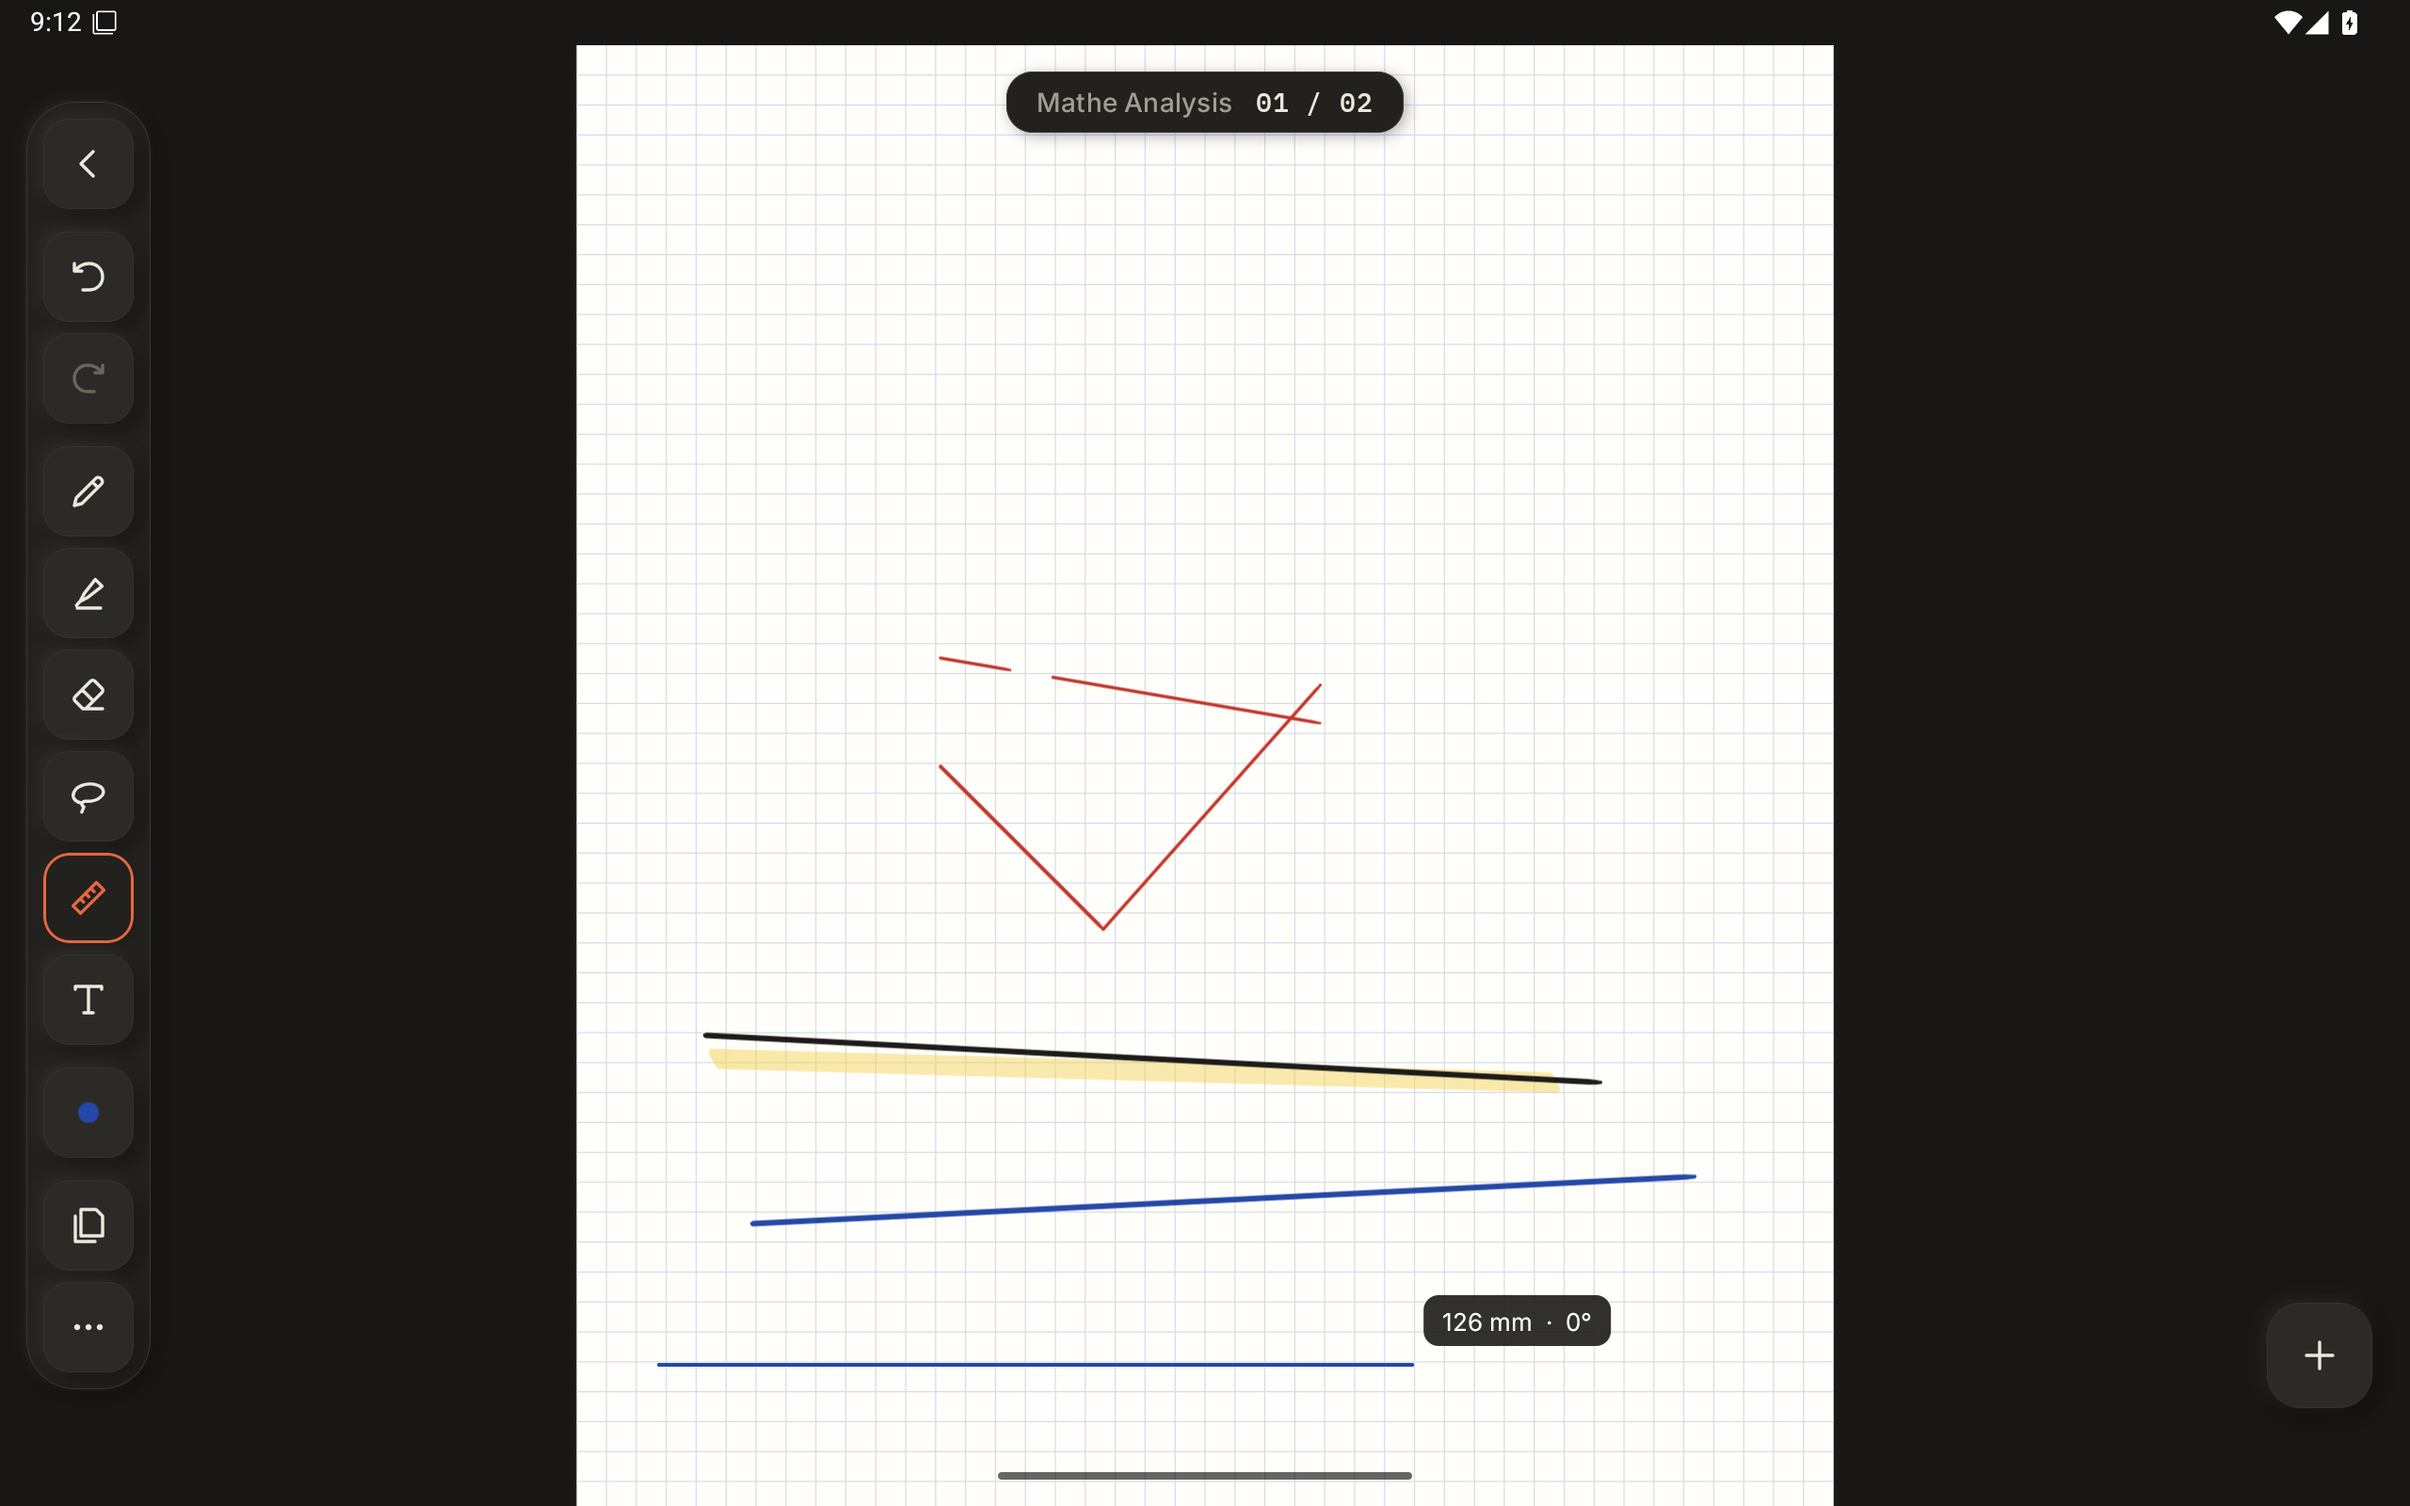
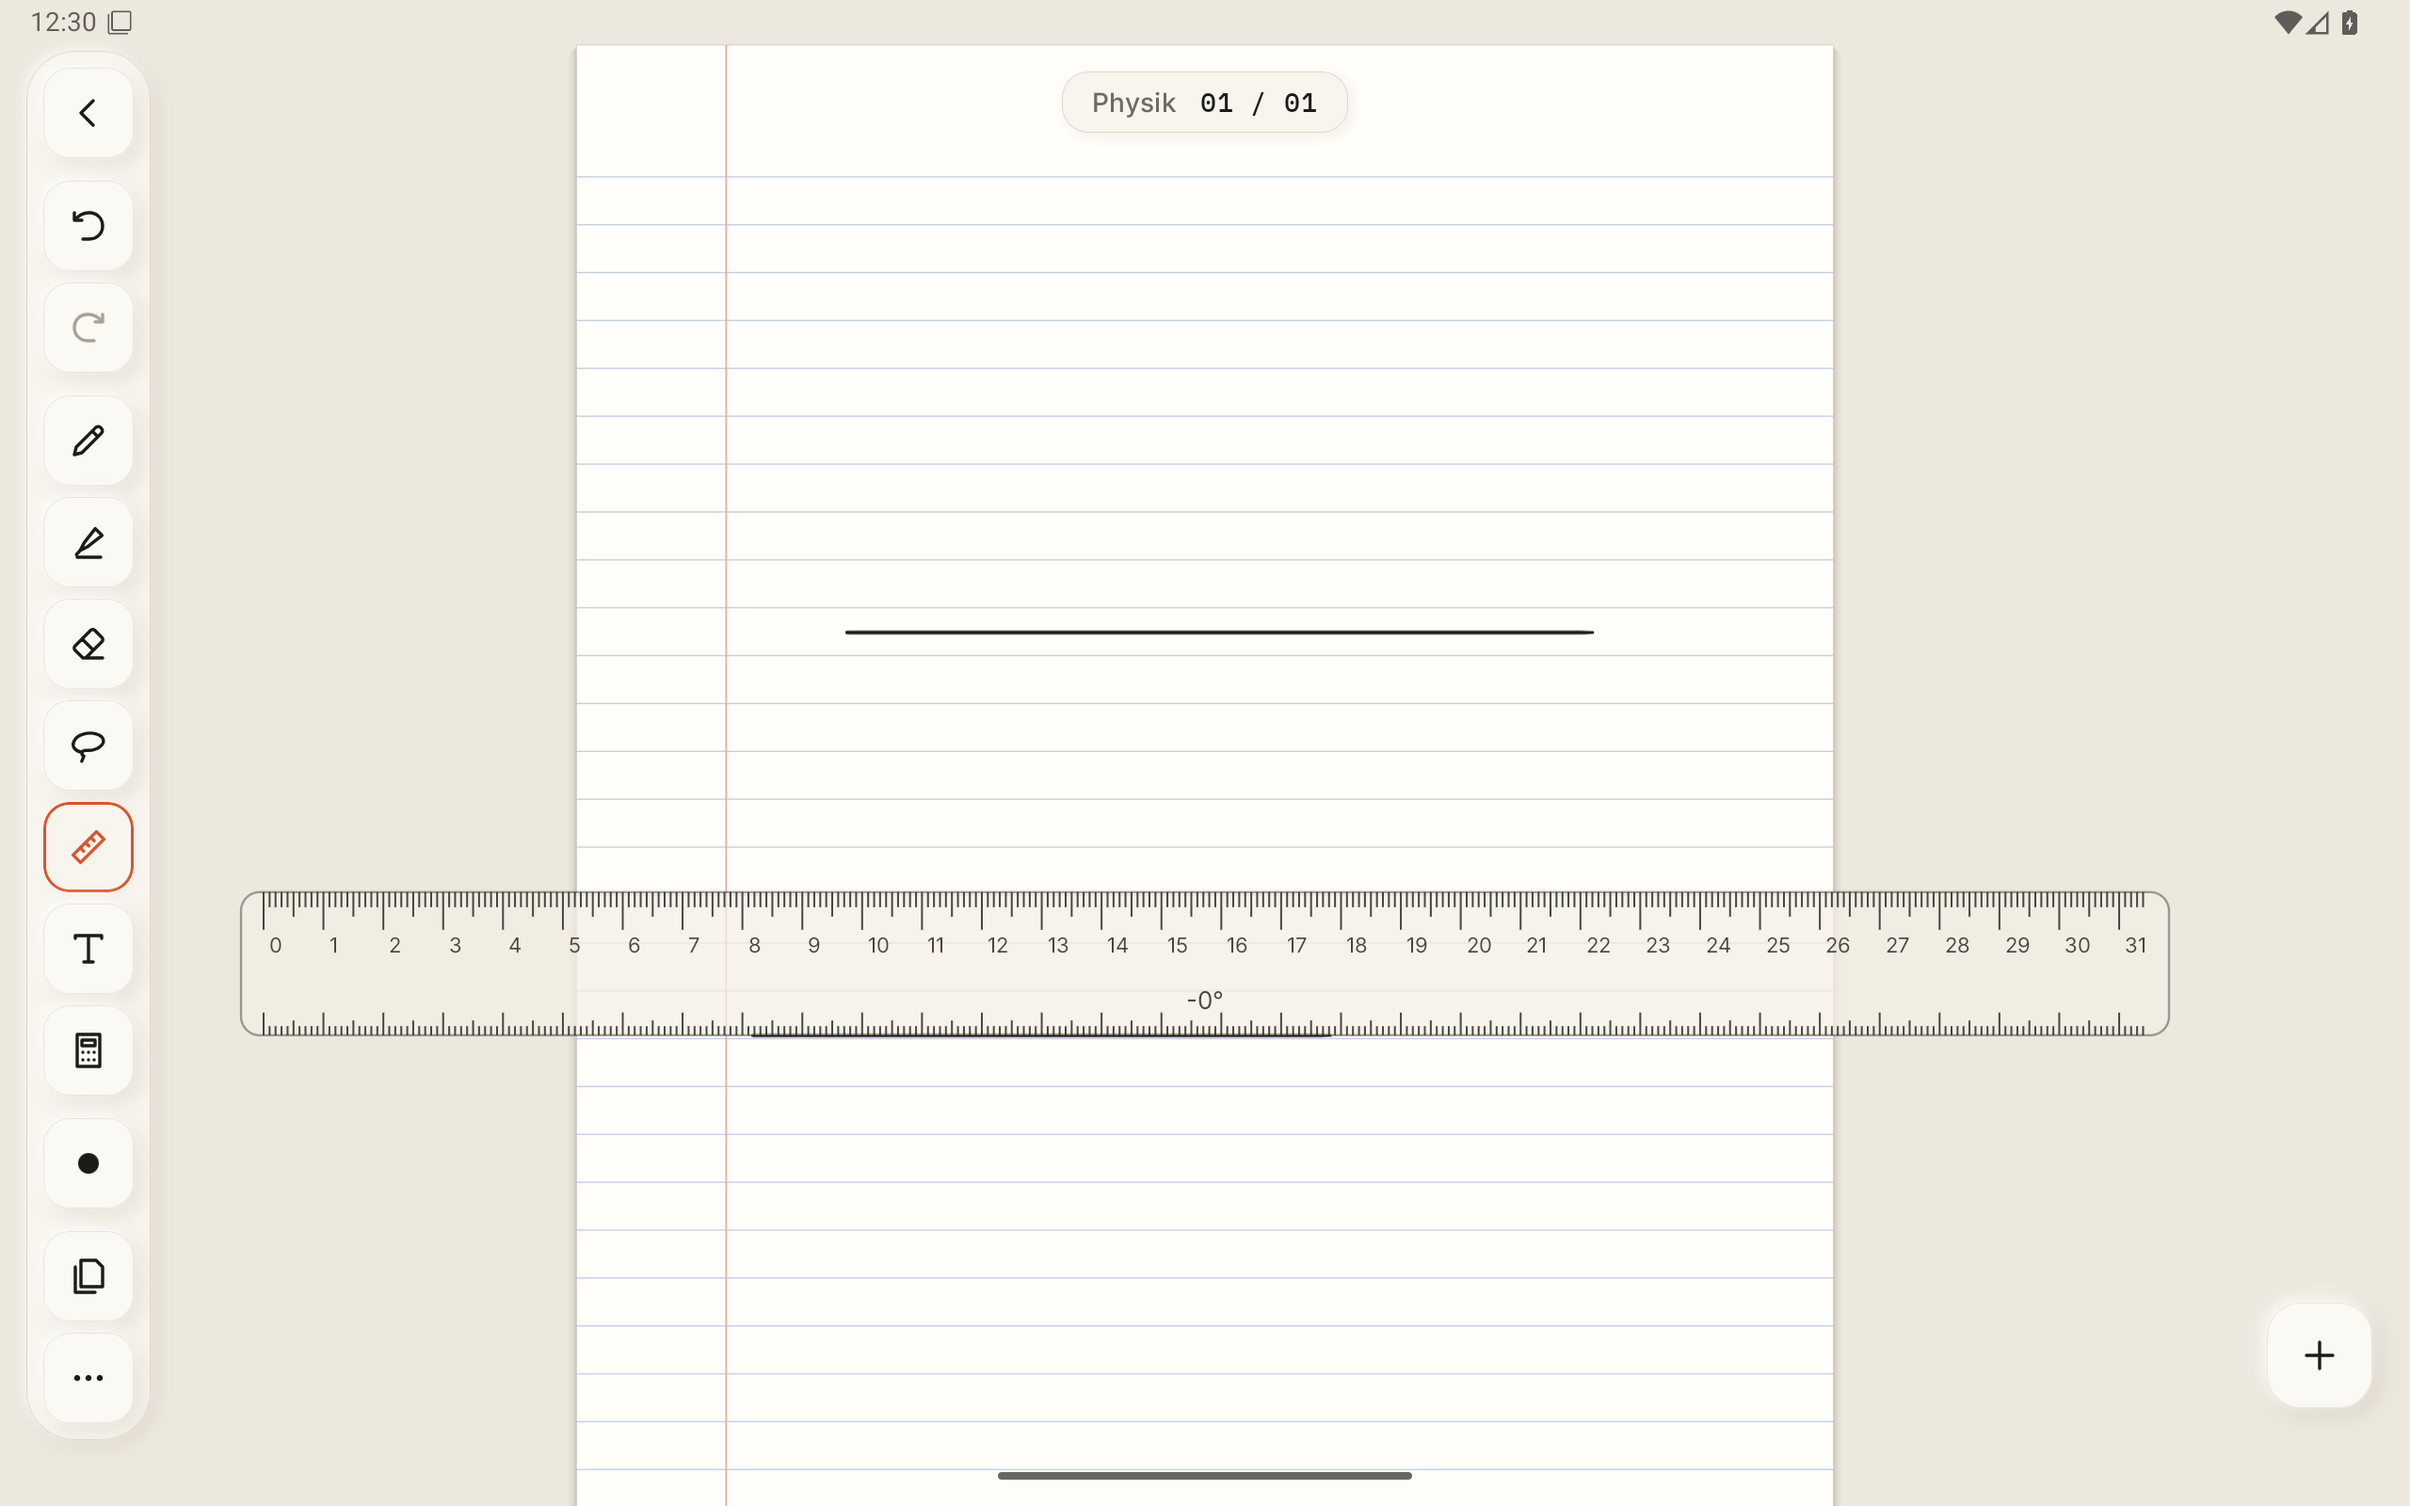
Schulranzen: echtes Lineal auf dem Blatt
Mit dem Lineal-Werkzeug liegt ein durchscheinendes Lineal mit mm/cm-Skala
(in Seiten-Millimetern beim aktuellen Zoom) auf dem Bildschirm. Ein Finger
verschiebt es, zwei Finger drehen es (rastet in 15°-Schritten ein, Winkel in
der Mitte). Der Stift an einer Kante zieht eine Linie genau entlang der Kante;
abseits des Lineals bleibt die freie gerade Linie mit Längen-/Winkelanzeige.

diff --git a/apps/schulranzen/ink/src/main/kotlin/de/millione/schulranzen/ink/NotebookCanvasView.kt b/apps/schulranzen/ink/src/main/kotlin/de/millione/schulranzen/ink/NotebookCanvasView.kt
@@ -459,6 +459,19 @@ class NotebookCanvasView(context: Context) : FrameLayout(context) {
     private var downX = 0f; private var downY = 0f
     private var selStart = FloatArray(2)
 
+    // The ruler lies on the screen (not on the page) like a real one on the
+    // desk: fingers move and turn it, the pen draws along its edges. Centre of
+    // the top edge in view pixels and angle in radians.
+    private var rulerCx = -1f; private var rulerCy = 0f
+    private var rulerAngle = 0f
+    private var rulerRawAngle = 0f
+    private val rulerW get() = 76f * density
+    private val rulerL get() = max(width, 1) * 0.8f
+    /** Offset of the edge the current pen line follows (0 or [rulerW]); NaN = free line. */
+    private var rulerEdge = Float.NaN
+    private var rulerFinger = false
+    private var rfLastX = 0f; private var rfLastY = 0f; private var rfLastA = 0f; private var rfId = -1
+
     // finger pan / pinch
     private var panId = -1
     private var lastX = 0f; private var lastY = 0f
@@ -495,6 +508,7 @@ class NotebookCanvasView(context: Context) : FrameLayout(context) {
             if (mode == Mode.PAN) endPan()
             return true
         }
+        if (tool == ToolKind.RULER && mode != Mode.PAN && rulerFingerEvent(e)) return true
         fingerEvent(e)
         return true
     }
@@ -555,7 +569,16 @@ class NotebookCanvasView(context: Context) : FrameLayout(context) {
             }
             ToolKind.RULER -> {
                 mode = Mode.RULER
-                rulerA = local; rulerB = local.copyOf()
+                ensureRuler()
+                val (t, d) = rulerCoords(x, y)
+                val grab = 30f * density
+                rulerEdge = if (abs(t) <= rulerL / 2 + grab && d in -grab..rulerW + grab) (if (d < rulerW / 2) 0f else rulerW) else Float.NaN
+                if (!rulerEdge.isNaN()) {
+                    val p = rulerEdgePoint(t, rulerEdge)
+                    rulerA = localOf(page, p[0], p[1]); rulerB = rulerA.copyOf()
+                } else {
+                    rulerA = local; rulerB = local.copyOf()
+                }
             }
             ToolKind.TEXT -> mode = Mode.TEXT
             else -> {
@@ -603,7 +626,10 @@ class NotebookCanvasView(context: Context) : FrameLayout(context) {
                         overlay.invalidate()
                     }
                     Mode.RULER -> {
-                        rulerB = snap(rulerA, localOf(gesturePage, x, y))
+                        rulerB = if (rulerEdge.isNaN()) snap(rulerA, localOf(gesturePage, x, y)) else {
+                            val p = rulerEdgePoint(rulerCoords(x, y).first, rulerEdge)
+                            localOf(gesturePage, p[0], p[1])
+                        }
                         overlay.invalidate()
                     }
                     Mode.MOVE_SEL -> {
@@ -684,6 +710,78 @@ class NotebookCanvasView(context: Context) : FrameLayout(context) {
         if (abs(deg - nearest) > 4.0) return b
         val r = Math.toRadians(nearest)
         return floatArrayOf(a[0] + (cos(r) * len).toFloat(), a[1] + (sin(r) * len).toFloat())
+    }
+
+    private fun ensureRuler() {
+        if (rulerCx < 0f && width > 0) { rulerCx = width / 2f; rulerCy = height * 0.42f }
+    }
+
+    /** View point → (along the ruler from its centre, across from the top edge). */
+    private fun rulerCoords(x: Float, y: Float): Pair<Float, Float> {
+        val dx = x - rulerCx; val dy = y - rulerCy
+        val c = cos(rulerAngle); val s = sin(rulerAngle)
+        return (dx * c + dy * s) to (-dx * s + dy * c)
+    }
+
+    private fun rulerEdgePoint(t: Float, edge: Float): FloatArray {
+        val c = cos(rulerAngle); val s = sin(rulerAngle)
+        return floatArrayOf(rulerCx + c * t - s * edge, rulerCy + s * t + c * edge)
+    }
+
+    private fun onRuler(x: Float, y: Float): Boolean {
+        val (t, d) = rulerCoords(x, y)
+        val pad = 6f * density
+        return abs(t) <= rulerL / 2 + pad && d in -pad..rulerW + pad
+    }
+
+    /** One finger moves the ruler, two turn it; it snaps to 15° steps. */
+    private fun rulerFingerEvent(e: MotionEvent): Boolean {
+        ensureRuler()
+        when (e.actionMasked) {
+            MotionEvent.ACTION_DOWN -> {
+                if (!onRuler(e.x, e.y)) return false
+                rulerFinger = true
+                rfId = e.getPointerId(0); rfLastX = e.x; rfLastY = e.y
+                rulerRawAngle = rulerAngle
+                return true
+            }
+            MotionEvent.ACTION_POINTER_DOWN -> if (rulerFinger && e.pointerCount == 2) {
+                rfLastA = atan2(e.getY(1) - e.getY(0), e.getX(1) - e.getX(0))
+                rfLastX = (e.getX(0) + e.getX(1)) / 2; rfLastY = (e.getY(0) + e.getY(1)) / 2
+            }
+            MotionEvent.ACTION_MOVE -> if (rulerFinger) {
+                if (e.pointerCount >= 2) {
+                    val a = atan2(e.getY(1) - e.getY(0), e.getX(1) - e.getX(0))
+                    val mx = (e.getX(0) + e.getX(1)) / 2; val my = (e.getY(0) + e.getY(1)) / 2
+                    var da = a - rfLastA
+                    if (da > Math.PI) da -= (2 * Math.PI).toFloat() else if (da < -Math.PI) da += (2 * Math.PI).toFloat()
+                    rulerRawAngle += da
+                    val step = Math.toRadians(15.0).toFloat()
+                    val nearest = (rulerRawAngle / step).roundToInt() * step
+                    val newAngle = if (abs(rulerRawAngle - nearest) < Math.toRadians(2.0)) nearest else rulerRawAngle
+                    // Turn about the fingers' midpoint, then follow it.
+                    val turn = newAngle - rulerAngle
+                    val c = cos(turn); val s = sin(turn)
+                    val rx = rulerCx - rfLastX; val ry = rulerCy - rfLastY
+                    rulerCx = rfLastX + rx * c - ry * s + (mx - rfLastX)
+                    rulerCy = rfLastY + rx * s + ry * c + (my - rfLastY)
+                    rulerAngle = newAngle
+                    rfLastA = a; rfLastX = mx; rfLastY = my
+                } else {
+                    val i = e.findPointerIndex(rfId).takeIf { it >= 0 } ?: 0
+                    rulerCx += e.getX(i) - rfLastX; rulerCy += e.getY(i) - rfLastY
+                    rfLastX = e.getX(i); rfLastY = e.getY(i)
+                }
+                rulerCx = rulerCx.coerceIn(0f, width.toFloat()); rulerCy = rulerCy.coerceIn(0f, height.toFloat())
+                overlay.invalidate()
+            }
+            MotionEvent.ACTION_POINTER_UP -> if (rulerFinger) {
+                val keep = if (e.actionIndex == 0) 1 else 0
+                rfId = e.getPointerId(keep); rfLastX = e.getX(keep); rfLastY = e.getY(keep)
+            }
+            MotionEvent.ACTION_UP, MotionEvent.ACTION_CANCEL -> if (rulerFinger) { rulerFinger = false; return true }
+        }
+        return rulerFinger
     }
 
     private fun finishRuler() {
@@ -975,7 +1073,12 @@ class NotebookCanvasView(context: Context) : FrameLayout(context) {
         fun eraserAt(px: Float, py: Float) { x = px; y = py; visible = true; erasing = true; invalidate() }
         fun hide() { if (visible) { visible = false }; invalidate() }
 
+        private val rulerFill = Paint(Paint.ANTI_ALIAS_FLAG)
+        private val rulerTick = Paint(Paint.ANTI_ALIAS_FLAG).apply { strokeWidth = 1f * density }
+        private val rulerText = Paint(Paint.ANTI_ALIAS_FLAG)
+
         override fun onDraw(canvas: Canvas) {
+            if (tool == ToolKind.RULER) drawPhysicalRuler(canvas)
             drawSelection(canvas)
             when (mode) {
                 Mode.LASSO -> drawLasso(canvas)
@@ -1033,6 +1136,40 @@ class NotebookCanvasView(context: Context) : FrameLayout(context) {
             val by = (pts[3] - 18f * density).coerceAtLeast(30f * density)
             canvas.drawRoundRect(bx - 10f * density, by - label.textSize - 6f * density, bx + tw + 10f * density, by + 8f * density, 8f * density, 8f * density, tag)
             canvas.drawText(text, bx, by, label)
+        }
+
+        /** Translucent ruler with mm/cm scale on the top edge (page millimetres at the current zoom). */
+        private fun drawPhysicalRuler(canvas: Canvas) {
+            ensureRuler()
+            if (rulerCx < 0f) return
+            val l = rulerL; val w = rulerW
+            canvas.save()
+            canvas.translate(rulerCx, rulerCy)
+            canvas.rotate(Math.toDegrees(rulerAngle.toDouble()).toFloat())
+            rulerFill.style = Paint.Style.FILL; rulerFill.color = 0xB8F4EFE4.toInt()
+            canvas.drawRoundRect(-l / 2, 0f, l / 2, w, 10f * density, 10f * density, rulerFill)
+            rulerFill.style = Paint.Style.STROKE; rulerFill.strokeWidth = 1.2f * density; rulerFill.color = 0x661C1B19
+            canvas.drawRoundRect(-l / 2, 0f, l / 2, w, 10f * density, 10f * density, rulerFill)
+            rulerTick.color = 0xCC1C1B19.toInt()
+            rulerText.color = 0xCC1C1B19.toInt(); rulerText.textSize = 11f * density; rulerText.typeface = label.typeface
+            val mm = UNITS_PER_MM * scale
+            val every = if (mm < 3f * density) 5 else 1
+            val start = -l / 2 + 12f * density
+            var i = 0
+            while (start + i * mm <= l / 2 - 12f * density) {
+                val x = start + i * mm
+                val len = when { i % 10 == 0 -> 20f; i % 5 == 0 -> 13f; else -> 8f } * density
+                canvas.drawLine(x, 0f, x, len, rulerTick)
+                canvas.drawLine(x, w, x, w - len * 0.6f, rulerTick)
+                if (i % 10 == 0) canvas.drawText((i / 10).toString(), x + 3f * density, 32f * density, rulerText)
+                i += every
+            }
+            // Angle in the middle, like a protractor readout.
+            val deg = ((-Math.toDegrees(rulerAngle.toDouble())).roundToInt() % 360 + 360) % 360
+            val text = "$deg°"
+            rulerText.textSize = 13f * density
+            canvas.drawText(text, -rulerText.measureText(text) / 2, w - 14f * density, rulerText)
+            canvas.restore()
         }
 
         private fun drawSelection(canvas: Canvas) {
